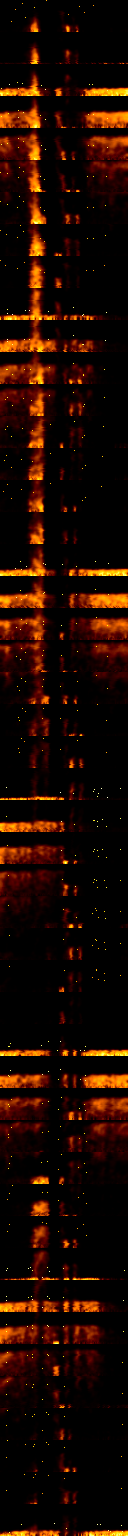
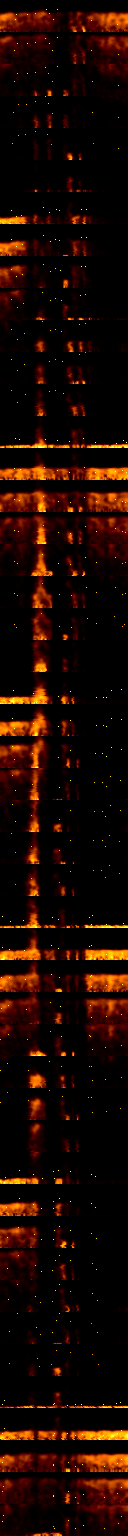
Mod sirasi ve gruplar: Klasik / Modern / Animasyon / Ortam
- Dalga ve Katmanli Dag Klasik grubuna, Isik Cizgisi/Orgu Serit/Aurora Modern grubuna
- Android: Muzik/Ortam sekmesi aile yerine Kind (muzikli/muziksiz) ile
- Acilis modu (Alev Halka) yeni sirasi 13; PC araci aile adlari

Claude-Session: https://claude.ai/code/session_01FXJygXqpMTD4wR1gjWr1uA

diff --git a/Android/app/src/main/java/com/spektrum/kontrol/ui/Ekranlar.kt b/Android/app/src/main/java/com/spektrum/kontrol/ui/Ekranlar.kt
@@ -202,8 +202,8 @@ fun AnaEkran(m: AnaModel) {
     ) { ic ->
         Box(Modifier.padding(ic).fillMaxSize()) {
             when (sekme) {
-                Sekme.MUZIK -> ModSekmesi(m, setOf(0, 1), "Cihazda müzik modu yok.")
-                Sekme.ORTAM -> ModSekmesi(m, setOf(2), "Henüz ortam görünümü yok.\nCihaz yazılımı güncellenince burada görünecek.")
+                Sekme.MUZIK -> ModSekmesi(m, muziksiz = false, "Cihazda müzik modu yok.")
+                Sekme.ORTAM -> ModSekmesi(m, muziksiz = true, "Henüz ortam görünümü yok.\nCihaz yazılımı güncellenince burada görünecek.")
                 Sekme.AYARLAR -> AyarlarSekmesi(m)
             }
         }
@@ -232,8 +232,9 @@ private fun UstCubuk(m: AnaModel) {
 
 /** Kaydirmali mod kartlari (resim yerine simdilik bos kart) + o modun ayarlari + parlaklik. */
 @Composable
-private fun ModSekmesi(m: AnaModel, aileler: Set<Int>, bosYazi: String) {
-    val liste: List<Mod> = m.modlar.filter { it.aile in aileler }
+private fun ModSekmesi(m: AnaModel, muziksiz: Boolean, bosYazi: String) {
+    // Sekme: cihazin bildirdigi tur (0 muzikli, 1 muziksiz); sira = cihazdaki sira (aileye gore gruplu)
+    val liste: List<Mod> = m.modlar.filter { (it.tur == 1) == muziksiz }
     if (liste.isEmpty()) {
         Text(bosYazi, color = Soluk, fontSize = 14.sp, textAlign = TextAlign.Center,
             modifier = Modifier.fillMaxWidth().padding(32.dp))

diff --git a/Android/app/src/main/java/com/spektrum/kontrol/protokol/Protokol.kt b/Android/app/src/main/java/com/spektrum/kontrol/protokol/Protokol.kt
@@ -122,7 +122,7 @@ class Yazar {
 data class Bilgi(val protokol: Int, val fw: String, val genislik: Int, val yukseklik: Int, val bitplane: Int,
                  val modSayisi: Int, val paramSayisi: Int, val mod: Int, val guc: Boolean, val ad: String)
 
-/** aile: 0 Spektrum, 1 Animasyon, 2 Ortam */
+/** tur: 0 muzikli, 1 muziksiz (sekmeyi belirler). aile: grup (0 Klasik, 1 Modern, 2 Animasyon, 3 Ortam), sadece siralama/PC */
 data class Mod(val no: Int, val tur: Int, val aile: Int, val ad: String)
 
 data class Tanim(val sira: Int, val toplam: Int, val id: Int, val tur: Int, val bayrak: Int, val maske: Int,

diff --git a/Android/app/src/main/java/com/spektrum/kontrol/AnaModel.kt b/Android/app/src/main/java/com/spektrum/kontrol/AnaModel.kt
@@ -126,7 +126,7 @@ class AnaModel(uyg: Application) : AndroidViewModel(uyg) {
                 modDeger.clear()
                 aktifMod.value = bl.mod
                 guc.value = bl.guc
-                sekme.value = if (ml.firstOrNull { it.no == bl.mod }?.aile == 2) Sekme.ORTAM else Sekme.MUZIK
+                sekme.value = if (ml.firstOrNull { it.no == bl.mod }?.tur == 1) Sekme.ORTAM else Sekme.MUZIK
                 tercih.edit().putString("ad_${b.ad}", bl.ad).apply()
                 cihaz.value = c
                 modDegerYukle(bl.mod)

diff --git a/Core/Src/Settings.c b/Core/Src/Settings.c
@@ -38,7 +38,7 @@
 
 static const SET_ModeInfo ModeInfo[] =
 {
-	/* --- Spektrum (aile 0) --- */
+	/* --- Klasik (aile 0) --- */
 	LOOK0("Klasik",							0, SPEC_MODE_CLASSIC),
 	LOOK("Neon",							0, SPEC_MODE_CLASSIC,
 		{ SET_ID_CLS_WIDTH, 4 }, { SET_ID_CLS_TYPE, 1 }, { SET_ID_CLS_PEAK_STYLE, 2 }),
@@ -46,20 +46,22 @@ static const SET_ModeInfo ModeInfo[] =
 		{ SET_ID_CLS_WIDTH, 2 }, { SET_ID_CLS_LAYOUT, 1 }, { SET_ID_CLS_SET, 2 }),
 	LOOK0("F\304\261skiye",					0, SPEC_MODE_FOUNTAIN),	/* Fiskiye */
 	LOOK0("Renkli Dalga",					0, SPEC_MODE_SPECWAVE),
-	LOOK0("I\305\237\304\261k \303\207izgisi",			0, SPEC_MODE_LIGHTLINE),
+	LOOK0("Dalga",							0, SPEC_MODE_WAVE),
 	LOOK0("Katmanl\304\261 Da\304\237",				0, SPEC_MODE_LAYERS),
-	LOOK("\303\226rg\303\274 \305\236erit",				0, SPEC_MODE_WEAVE,
+	/* --- Modern (aile 1) --- */
+	LOOK0("I\305\237\304\261k \303\207izgisi",			1, SPEC_MODE_LIGHTLINE),
+	LOOK("\303\226rg\303\274 \305\236erit",				1, SPEC_MODE_WEAVE,
 		{ SET_ID_PAL, 7 }),
-	LOOK0("Aurora",							0, SPEC_MODE_AURORA),
-	/* --- Animasyon (aile 1) --- */
-	LOOK0("Alev",							1, SPEC_MODE_FIRE),
-	LOOK0("Alev \303\207ubuk",				1, SPEC_MODE_FIRE_BARS),	/* Alev Cubuk */
-	LOOK0("Orta Alev",						1, SPEC_MODE_FIRE_BLUE),	/* Ortadan iki yana */
-	LOOK0("Patlama",						1, SPEC_MODE_BLAST),
-	LOOK0("Orta Patlama",					1, SPEC_MODE_CBLAST),
-	LOOK0("Alev Halka",						1, SPEC_MODE_FIRE_BALL),
-	LOOK0("Halka",							1, SPEC_MODE_RINGS),
-	LOOK0("Dalga",							1, SPEC_MODE_WAVE),
+	LOOK0("Aurora",							1, SPEC_MODE_AURORA),
+	/* --- Animasyon (aile 2) --- */
+	LOOK0("Alev",							2, SPEC_MODE_FIRE),
+	LOOK0("Alev \303\207ubuk",				2, SPEC_MODE_FIRE_BARS),	/* Alev Cubuk */
+	LOOK0("Orta Alev",						2, SPEC_MODE_FIRE_BLUE),	/* Ortadan iki yana */
+	LOOK0("Alev Halka",						2, SPEC_MODE_FIRE_BALL),
+	LOOK0("Patlama",						2, SPEC_MODE_BLAST),
+	LOOK0("Orta Patlama",					2, SPEC_MODE_CBLAST),
+	LOOK0("Halka",							2, SPEC_MODE_RINGS),
+	/* --- Ortam (aile 3, Kind 1 = muziksiz): henuz yok --- */
 };
 
 #define LOOK_COUNT	(sizeof(ModeInfo) / sizeof(ModeInfo[0]))

diff --git a/Core/Inc/SpecConfig.h b/Core/Inc/SpecConfig.h
@@ -106,7 +106,7 @@
 #define CFG_BEAT_BRIGHT_BOOST	25U		/* Vurusta ek parlaklik, % (0 = kapali)	*/
 #define CFG_HUE_SPEED			40.0f	/* Renk donme hizi, derece/s			*/
 #define CFG_TRAIL				200U	/* Iz birakan modlarda iz uzunlugu 0..250 */
-#define CFG_START_MODE			14U		/* Acilis modu: 14 = Alev Halka			*/
+#define CFG_START_MODE			13U		/* Acilis modu: 13 = Alev Halka			*/
 #define CFG_AUTO_MODE_SEC		0U		/* >0: bu kadar saniyede bir otomatik gec */
 #define CFG_SHOW_MODE_MS		800U	/* Mod degisince sol ustte numara		*/
 #define CFG_SHOW_FREQ			0		/* 1: sag ustte tepe frekansi (test)	*/

diff --git a/PC/protokol.py b/PC/protokol.py
@@ -9,7 +9,7 @@ SOF = 0xA5
 DURUM = {0: 'tamam', 1: 'bilinmeyen komut', 2: 'bilinmeyen parametre', 3: 'aralik disi',
          4: 'CRC hatasi', 5: 'mesgul', 6: 'desteklenmiyor', 7: 'guncelleme hatasi'}
 TUR = {0: 'bool', 1: 'int', 2: 'enum', 3: 'renk', 4: 'palet', 5: 'ton', 6: 'blok'}
-AILE = {0: 'Spektrum', 1: 'Animasyon', 2: 'Ortam'}
+AILE = {0: 'Klasik', 1: 'Modern', 2: 'Animasyon', 3: 'Ortam'}
 BAYRAK_MOD = 0x01
 BAYRAK_SALT_OKUNUR = 0x02
 BAYRAK_GIZLI = 0x08

diff --git a/Core/Inc/Settings.h b/Core/Inc/Settings.h
@@ -97,7 +97,7 @@ typedef struct
 {
 	const char		*Name;
 	uint8_t			Kind;			/* 0 = muzik, 1 = muziksiz				*/
-	uint8_t			Family;			/* 0 = spektrum, 1 = animasyon, 2 = ortam */
+	uint8_t			Family;			/* 0 klasik, 1 modern, 2 animasyon, 3 ortam (grup/sira) */
 	uint8_t			Engine;			/* SPEC_Mode							*/
 	uint8_t			NOvr;
 	const int32_t	(*Ovr)[2];		/* { Id, varsayilan }					*/

diff --git a/NOTLAR.md b/NOTLAR.md
@@ -35,10 +35,11 @@ Yazmadan önce cihazdaki dosyayı stage edip diff al (CubeIDE / başka oturum de
 - PC/SpektrumAraci.py + protokol.py: ayar aracı (sadece Fatih kullanır, gizleme yok).
 
 ## Görünümler (mod listesi)
-- Spektrum: 0 Klasik, 1 Neon, 2 Orta Dağ, 3 Fıskiye, 4 Renkli Dalga, 5 Işık Çizgisi, 6 Katmanlı Dağ,
-  7 Örgü Şerit, 8 Aurora
-- Animasyon: 9 Alev, 10 Alev Çubuk, 11 Orta Alev, 12 Patlama, 13 Orta Patlama, 14 Alev Halka (açılış),
-  15 Halka, 16 Dalga
+- Klasik (aile 0): 0 Klasik, 1 Neon, 2 Orta Dağ, 3 Fıskiye, 4 Renkli Dalga, 5 Dalga, 6 Katmanlı Dağ
+- Modern (aile 1): 7 Işık Çizgisi, 8 Örgü Şerit, 9 Aurora
+- Animasyon (aile 2): 10 Alev, 11 Alev Çubuk, 12 Orta Alev, 13 Alev Halka (açılış), 14 Patlama, 15 Orta Patlama, 16 Halka
+- Ortam (aile 3): henüz yok. Android sekmesi aileye değil Kind'a bakar (0 müzikli -> Müzik, 1 müziksiz -> Ortam);
+  aile sadece gruplama/sıra (PC'de başlık). Sıra değişince kayıtlı ayarlar kendiliğinden varsayılana döner (Layout CRC).
 - Silindi (beğenilmedi): Plazma, Kutup Işığı, Işık Girdabı (akışkan buhar denemesi, 128x32'de ekranı dolduramadı).
 - Her görünümde Hız (0 = tempoya göre). Vuruşa tepki verenlerde Tepki (Sakin/Normal/Hareketli).
 - Alev rengi: bloklu seçim (Ateş, Pembe, Mor, Mavi gaz, Buz, Yeşil).
